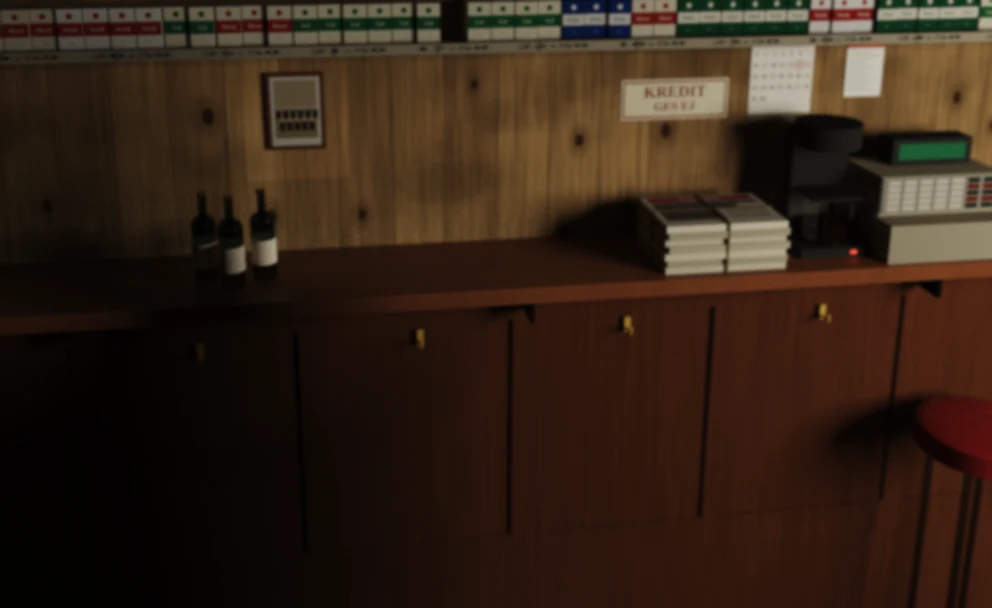
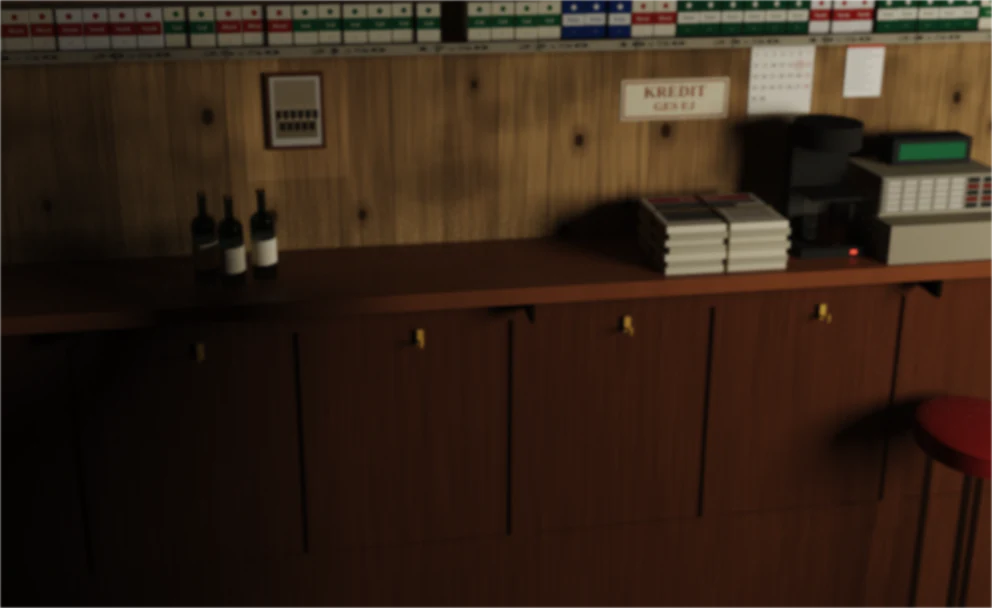
Väggen bakom Hasse Backe ombakad för platsen vid hörnet (fem av sex bilder)
Pulten skuggar väggen lite annorlunda när han sitter vid hörnet (PLATS).
Fem av väggens sex bilder är bakade om på samma sätt som 2026-11-08
(mjukvarugrafik, 160 varv breda, 240 på höjden); den sjätte,
hasse-bak-dag.webp, kommer i nästa commit. README och
scripts/hasse/README.md säger att väggen är ombakad.

Claude-Session: https://claude.ai/code/session_016Cdqm8mBXYWmMgMPfR1L97

Changed region(s): [[0.0625, 0.9688, 0.4375, 1.0]]

diff --git a/scripts/hasse/README.md b/scripts/hasse/README.md
@@ -8,7 +8,7 @@
 
 Ändras kameran, baren, pulten eller var han sitter vid den (`DISK`, `HORN`, `PLATS`) i `rum-hasse-scen.js` ska väggen bakas om. Pulten framför honom bakas inte: sidan ritar den en gång i hans värld (`diskBild` i `public/rum-hasse-3d.js`), med väggens bild svagt speglad i träet. I bakningen finns den och han själv bara som något som skuggar och kastar ljus.
 
-Alla sex väggbilderna bakades om 2026-11-08 när kameran flyttades upp (`HOJD` 750, `LUT` 14), med mjukvarugrafik i Chromium (`CHROME=…`, se nedan): 160 varv för de breda och 240 för telefonen på höjden, i stället för 400. De har något mer brus än förut; med grafikkort på Macen går det att baka om dem med 400 varv som ovan. När han flyttade ut mot pultens hörn 2026-11-09 (`PLATS`) bakades de inte om: alla sex ska bakas om med den nya platsen (pulten skuggar väggen lite annorlunda), helst på Macen med grafikkort.
+Alla sex väggbilderna bakades om 2026-11-08 när kameran flyttades upp (`HOJD` 750, `LUT` 14), med mjukvarugrafik i Chromium (`CHROME=…`, se nedan): 160 varv för de breda och 240 för telefonen på höjden, i stället för 400. De har något mer brus än förut; med grafikkort på Macen går det att baka om dem med 400 varv som ovan. När han flyttade ut mot pultens hörn 2026-11-09 (`PLATS`) bakades alla sex om på samma sätt; pulten skuggar väggen lite annorlunda, mest i telefonens bilder på höjden.
 
 Pultens bilder i rummet (`public/rum/pult.webp`, `pult-mer.webp` och framkanten `pult-kant.webp`) är samma pult som framför honom, med samma trä och form (`public/rum-pult.js`), och bakas med `node scripts/rum/pult.mjs`. Ändras träet, formen eller rummets kamera (`RUM`) där ska de bakas om.
 

diff --git a/README.md b/README.md
@@ -1083,9 +1083,8 @@ bara lokalt. Analyserna visas som de ligger i `data/analyser.json`; hur de skriv
   [public/rum-hasse-scen.js](public/rum-hasse-scen.js)), med händerna vid geringssnittet och pultens arm tätt intill en;
   kaffet följer med, 5 cm längre fram, och notan ligger på tvären framför hans händer, vänd som i rummet, med fatet
   på dess övre vänstra hörn. Rummet är oförändrat. I telefonen blir bilden lite mindre när notan annars skulle
-  hamna under samtalets text (`matt` i [public/rum-hasse.js](public/rum-hasse.js)). Väggen bakom honom är inte
-  ombakad för den nya platsen än: i bakningen syns pulten bara som skugga och ljus på väggen, och den bakas om
-  på Macen (scripts/hasse/README.md). Se [Hasse Backe](#hasse-backe),
+  hamna under samtalets text (`matt` i [public/rum-hasse.js](public/rum-hasse.js)). Väggen bakom honom är
+  ombakad för den nya platsen (i bakningen syns pulten bara som skugga och ljus på väggen). Se [Hasse Backe](#hasse-backe),
   *Bilden* och *Kaffet i rummet*.
 - **Hasse Backe minns vad han sa (2026-11-06, användarens önskemål):** klickade man på en match
   man redan hade frågat om slog han domen i disken en gång till, och efter en omladdning gjorde han
